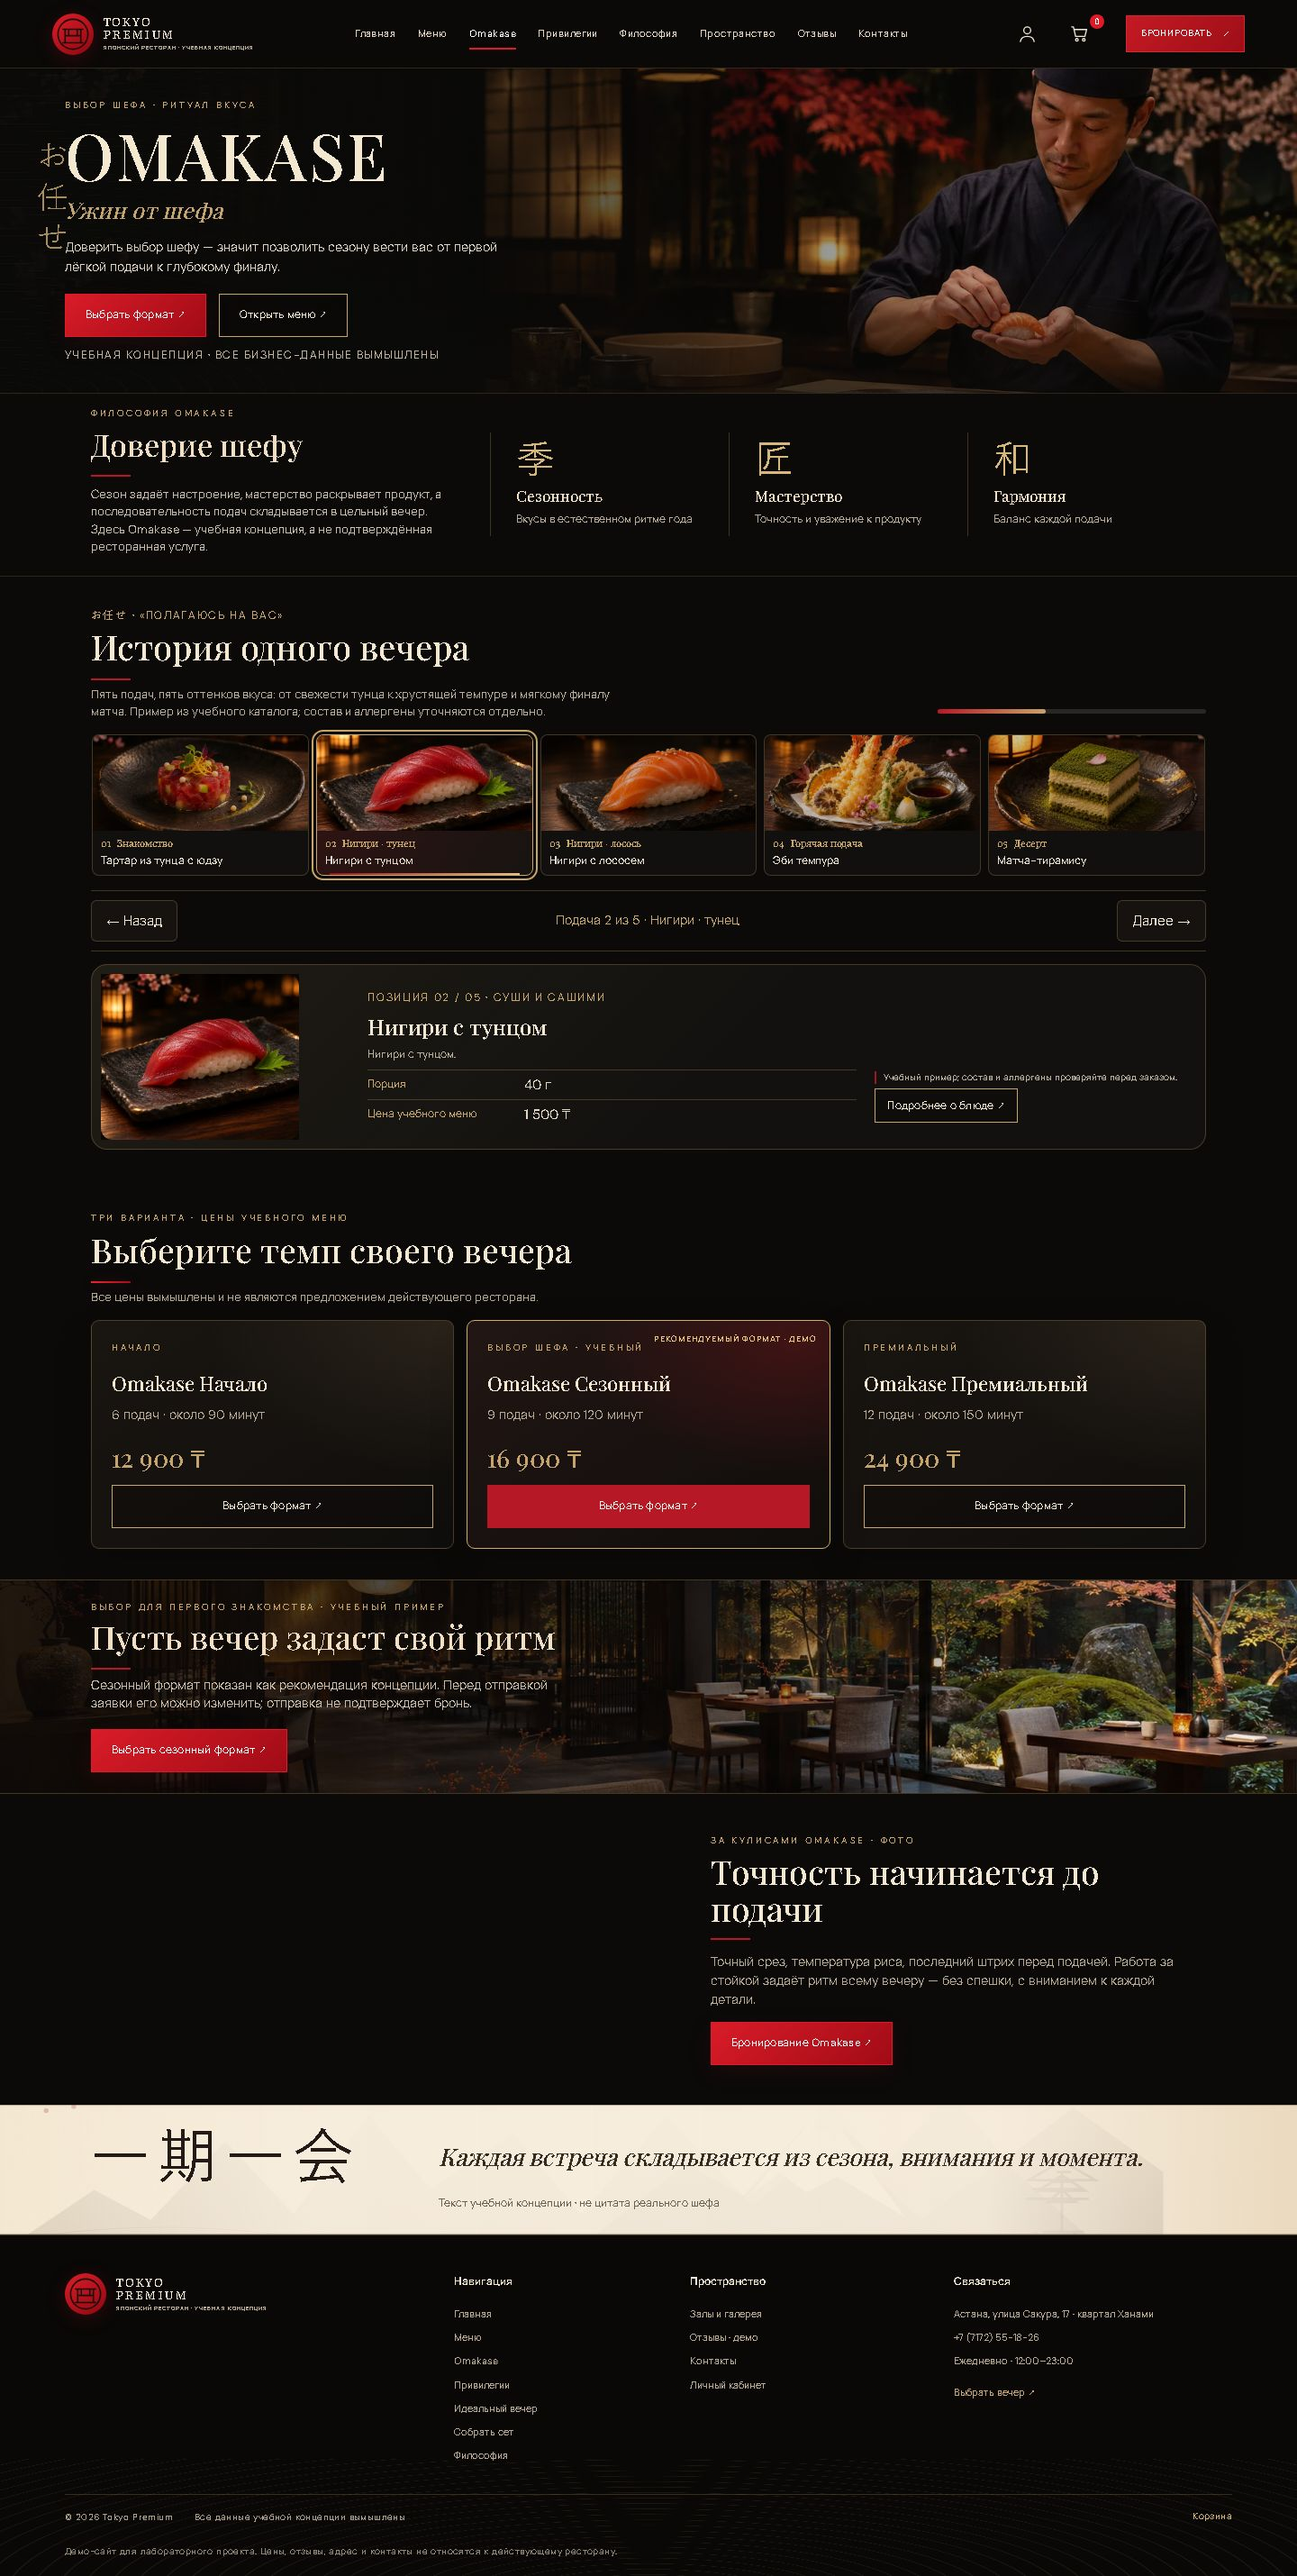
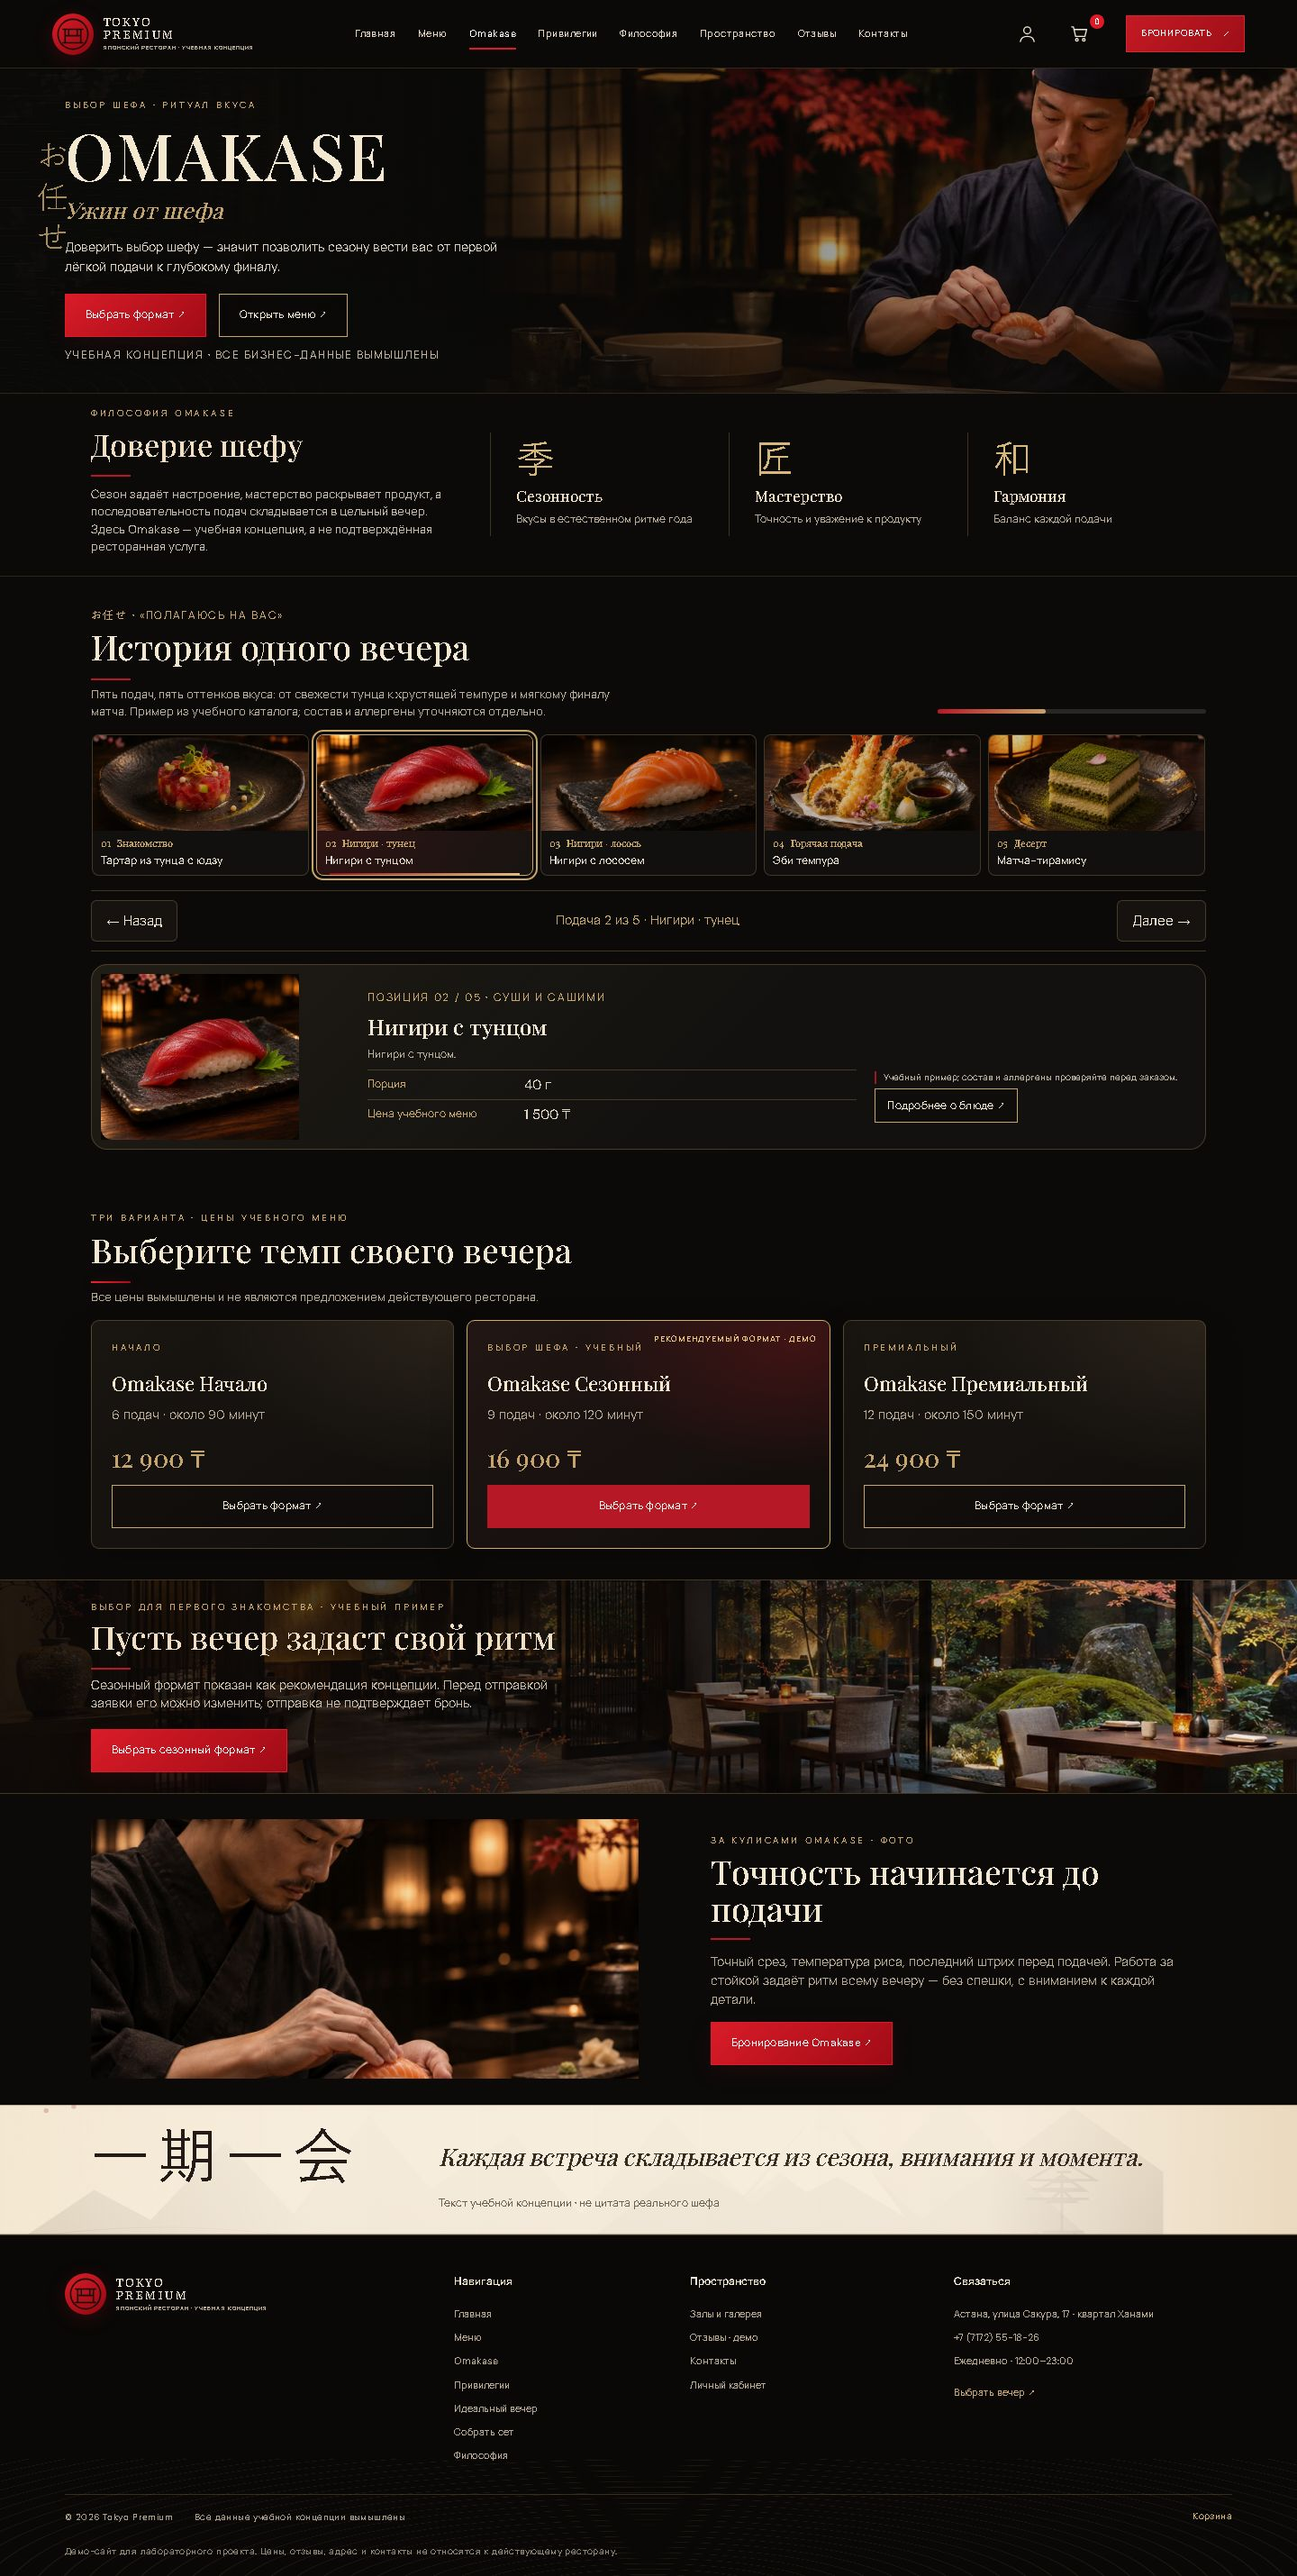
Fix Omakase full-page screenshot evidence

Changed region(s): [[0.0625, 0.6849, 0.5, 0.8094]]

diff --git a/project-docs/visual-qa/static-export-parity-2026-11-23/README.md b/project-docs/visual-qa/static-export-parity-2026-11-23/README.md
@@ -2,11 +2,13 @@
 
 Freshly exported the PHP-rendered Omakase and set-builder routes into `docs/` with a disposable SQLite database, then inspected the full-page mobile and desktop captures. The static export now includes the current Omakase course controls and current set-builder composition, clear action, and mobile summary.
 
+The first Omakase desktop capture in this folder was taken before the offscreen lazy-loaded backstage photograph entered the viewport. This was a screenshot-capture omission, not a missing production asset. The focused Omakase test now eagerly decodes that image and asserts it is visible before capture. The corrected desktop/mobile screenshots below were re-captured from the current static export and inspected; the previous desktop artifact is retained as `omakase-desktop-before-lazy-decode.jpg` for traceability. No page CSS or image was changed.
+
 Focused Playwright checks passed against both the isolated PHP server and the exported Pages routes at 390 px and 1440 px:
 
 - Omakase next/previous and keyboard navigation, reduced-motion state, all three tier-to-booking selections, and selection after refresh.
 - Set-builder local draft restore, totals/progress, quantity and distinct-item limits, clearing, transfer into the shared cart, and no horizontal overflow.
-- Six full-page screenshots (390 px and 1440 px for both modules, plus mobile builder controls and the open navigation state) were reviewed.
+- Six full-page screenshots (390 px and 1440 px for both modules, plus mobile builder controls and the open navigation state) were reviewed. The corrected Omakase captures include the backstage chef photograph.
 
 Reproduce from the repository root with `TOKYO_BASE_URL` and `TOKYO_STATIC_BASE_URL` pointing at PHP and `/docs`, `TOKYO_OMAKASE_WIDTHS=390,1440`, and `TOKYO_SET_BUILDER_WIDTHS=390,1440`; then run `node tests/omakase-focused.cjs` and `node tests/set-builder-draft-regression.cjs`.
 

diff --git a/project-docs/testing-report.md b/project-docs/testing-report.md
@@ -1,5 +1,9 @@
 # Tokyo Premium 2.0 — verification record
 
+## 2026-11-23 · Omakase capture correction
+
+The 23 November full-page parity screenshot initially omitted the offscreen lazy-loaded chef photograph because that capture did not scroll or decode it before taking the image. The page itself was not broken. Retook the static export at 390 and 1440 px using `test:omakase-focused`; added an assertion that the backstage image is loaded and visible before capture. The focused run passed five-stage selection, keyboard navigation, all three booking-format handoffs after refresh, reduced motion, and both widths. Corrected screenshots and the retained original capture artifact are in `visual-qa/static-export-parity-2026-11-23/`. No production code changed; PHP and public Pages were not re-tested in this documentation/evidence pass.
+
 ## 2026-11-23 · Philosophy desktop spacing
 
 Focused `tests/philosophy-visual.cjs` passed on the checked-in Pages export and the cache-busted public route at 390 px and 1440 px. All page images decoded; headings remain within bounds; all four crimson rules are visible; there is no horizontal overflow or page error. Fresh metrics show 2864 px desktop height versus the previous saved 3065 px baseline; mobile remained unchanged at 5821 px. Commit `0d6988e` deployed successfully in [Actions run 45171370418](https://github.com/altento/tokyo-premium/actions/runs/45171370418). Captures and reference notes: [`philosophy-density-2026-11-23`](visual-qa/philosophy-density-2026-11-23/comparison.md). PHP rendering was not tested in this pass.

diff --git a/project-docs/visual-qa/README.md b/project-docs/visual-qa/README.md
@@ -27,6 +27,8 @@ Offers/quote consistency: [2026-11-19 evidence](offers-checkout-2026-11-19/compa
 
 Omakase browsing update: [2026-11-19 comparison](omakase-2026-11-19/comparison.md), complete 1440/390 px captures with course 2 selected, baseline capture and paired approved-reference comparison.
 
+Omakase static-export parity: [2026-11-23 corrected captures](static-export-parity-2026-11-23/README.md), with an explicit lazy-image decode assertion so backstage photography is present in full-page screenshots.
+
 Latest booking/gallery follow-up: [2026-11-19 comparison](booking-gallery-2026-11-19/comparison.md), including complete 1440/390 px captures, selected-table and modal states, baseline reproduction and paired reference images.
 
 Browser captures come from the locally served PHP preview and its generated static Pages export. `npm run test:browser` checks the 11 page types, all 20 dish details, and cart, booking, account, navigation, and menu flows. `npm run test:responsive` checks 320, 360, 375, 390, 430, 768, 1024, 1440, and 1920 px and checks text range rectangles for clipping.
